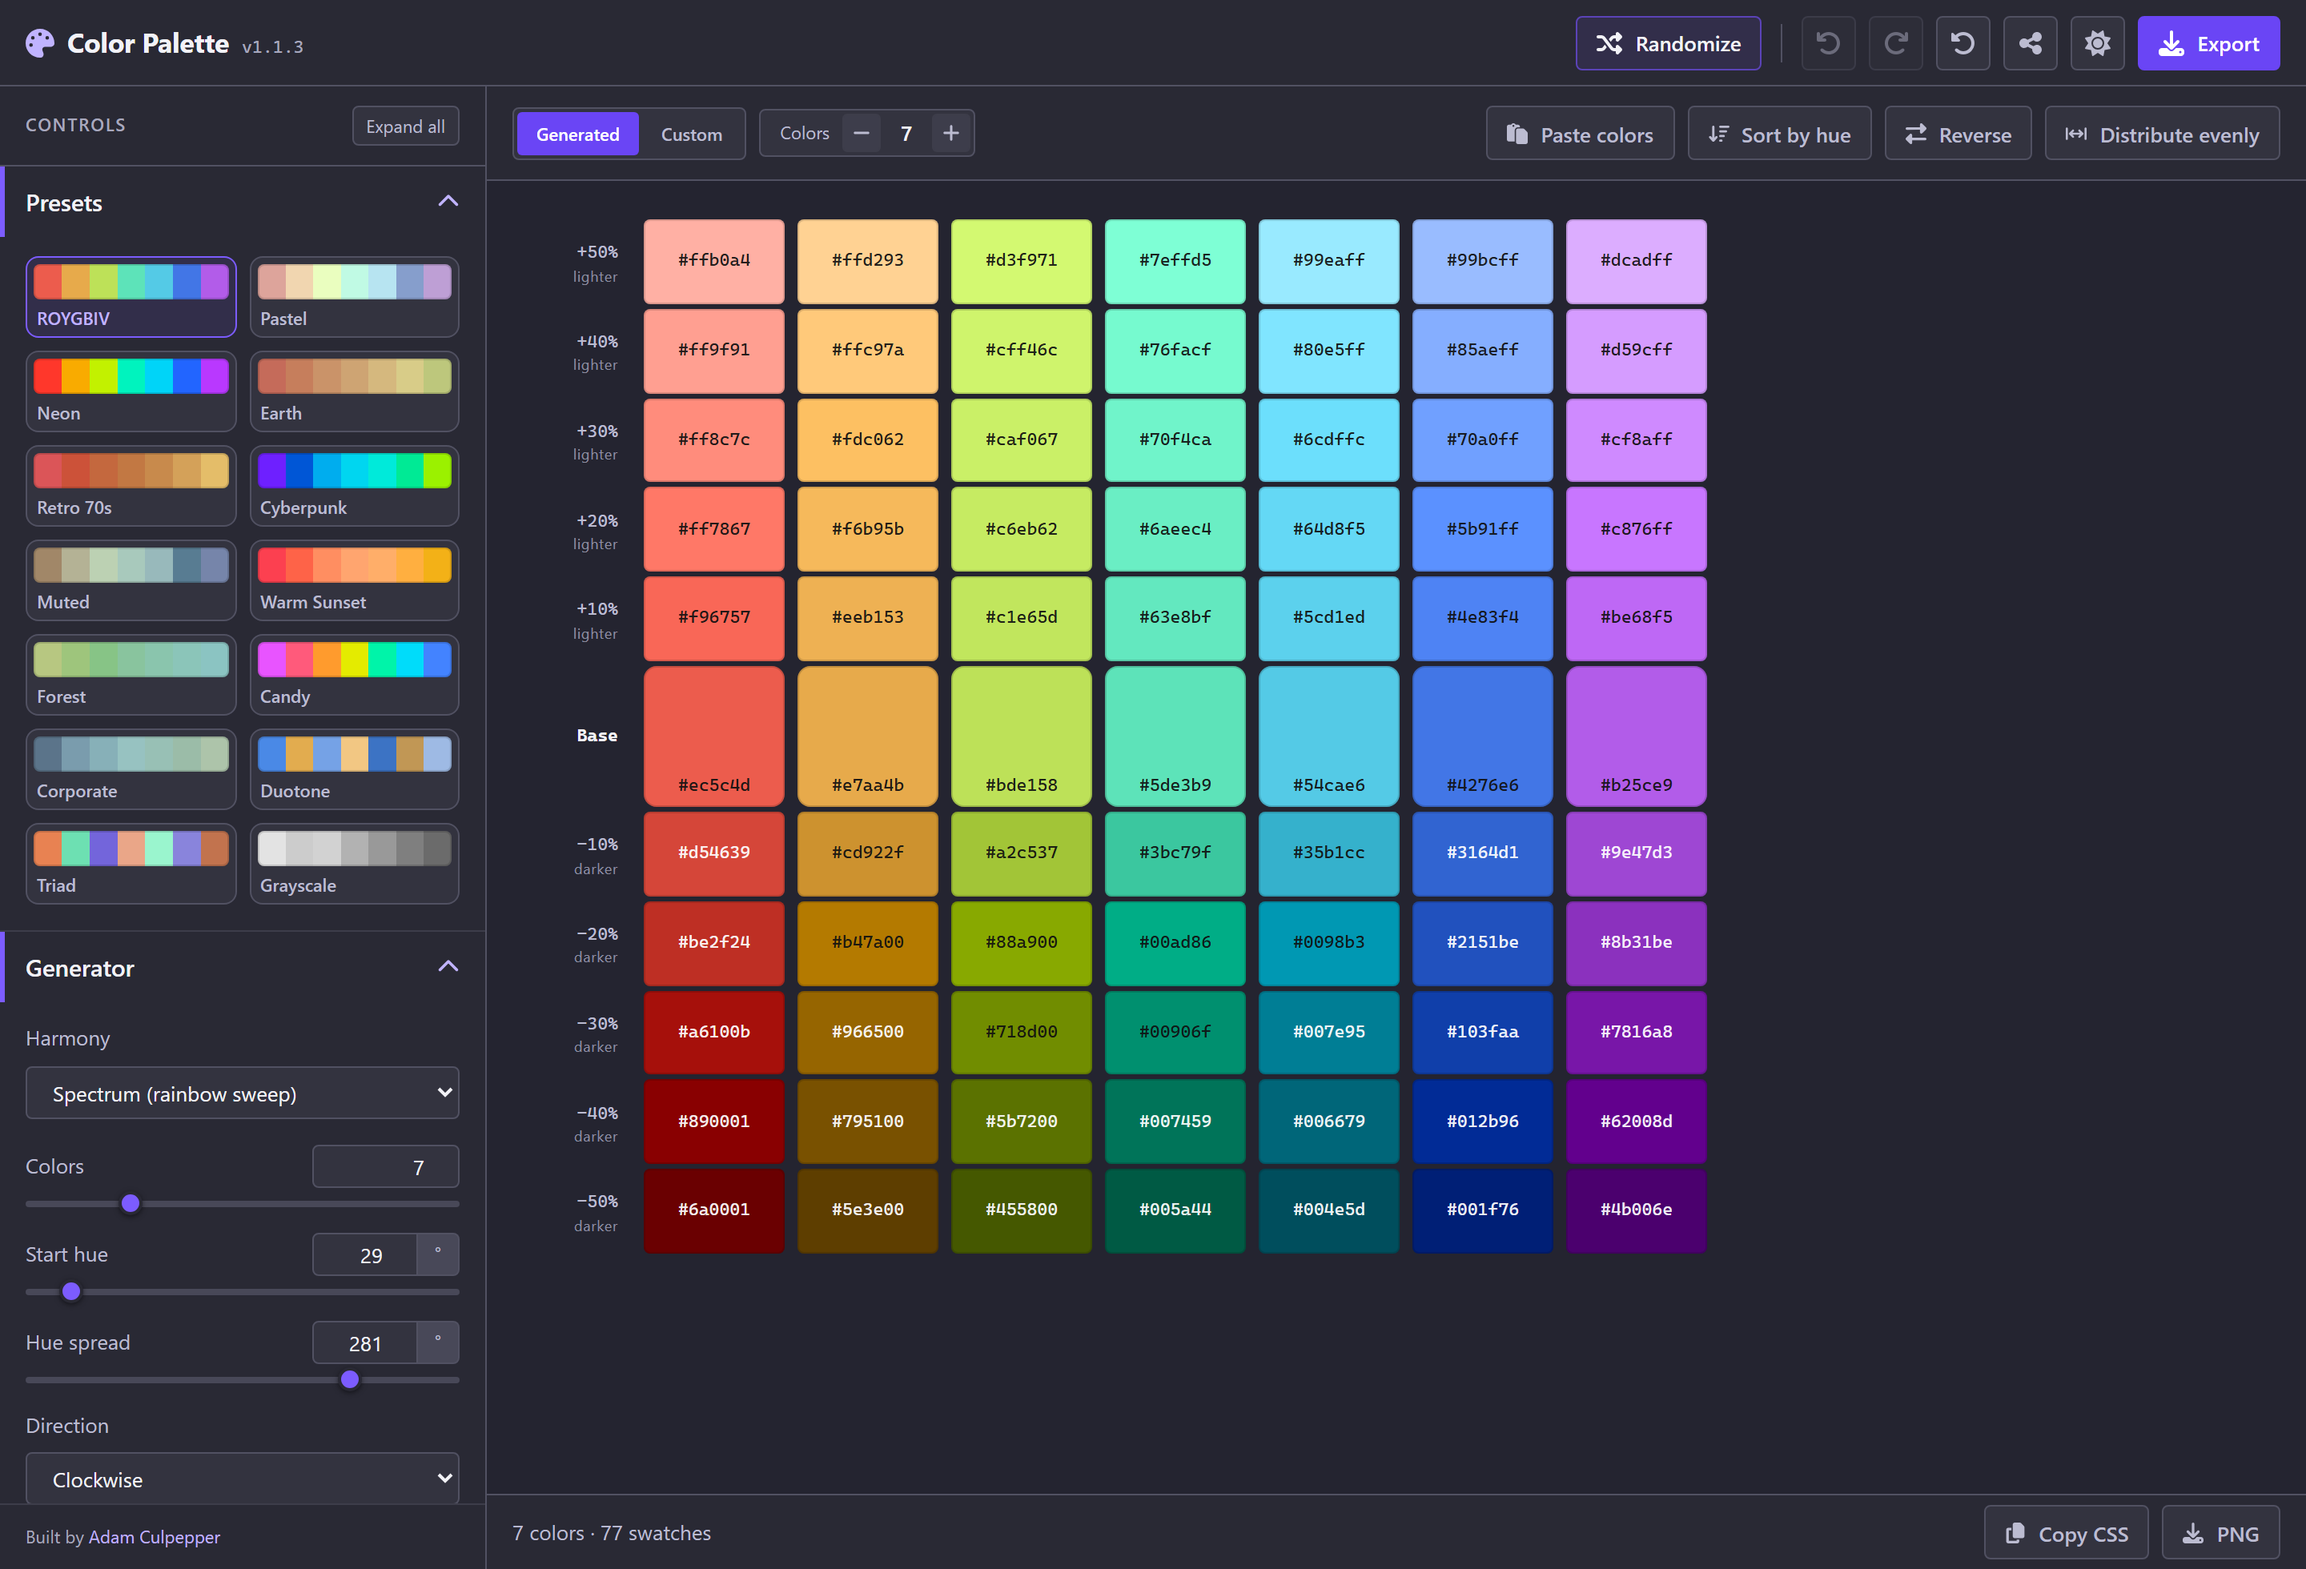
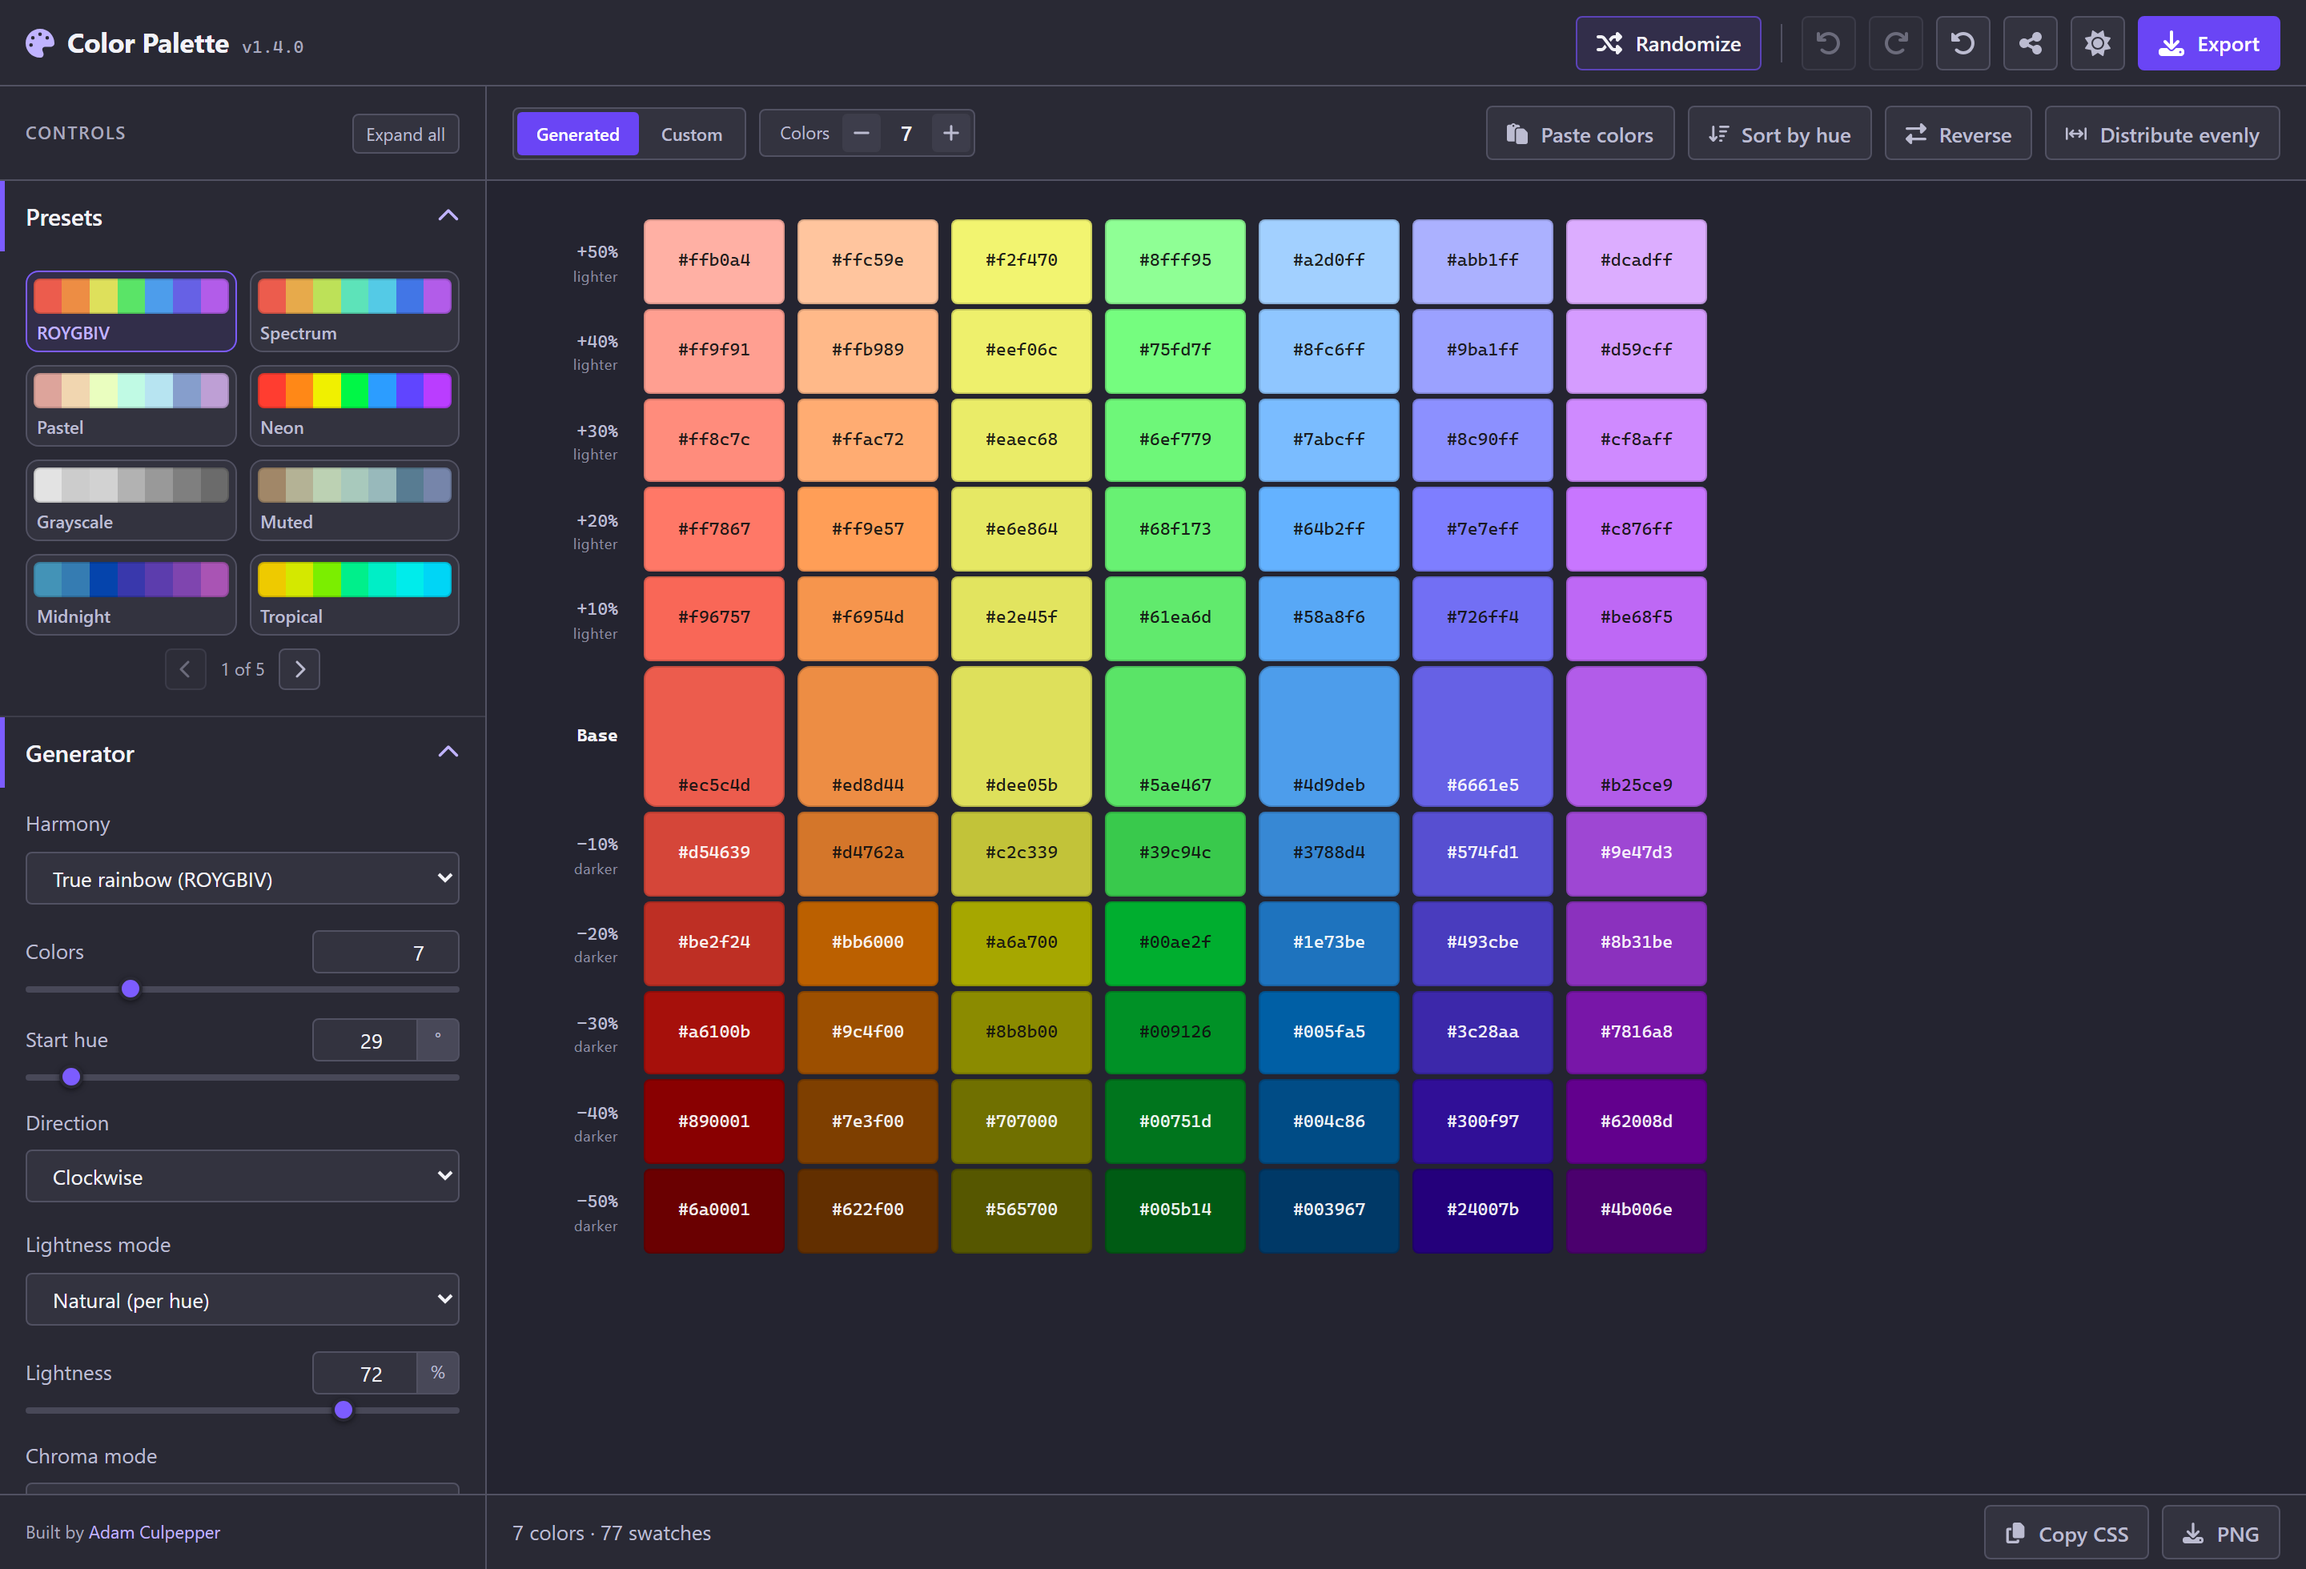
Land on the true rainbow by default (v1.4.0)

diff --git a/src/data/params.js b/src/data/params.js
@@ -33,7 +33,7 @@ export const PARAM_REGISTRY = [
   // ---- Generator ----
   {
     key: 'harmony', group: 'Generator', type: 'select', label: 'Harmony',
-    default: 'spectrum',
+    default: 'spectral',
     options: [
       { value: 'spectrum', label: 'Spectrum (even sweep)' },
       { value: 'spectral', label: 'True rainbow (ROYGBIV)' },

diff --git a/src/data/version.js b/src/data/version.js
@@ -2,4 +2,4 @@
 // npm run verify:exports fails when the three drift, so a release cannot
 // ship with a stale header.
 export const APP_NAME = 'Color Palette'
-export const VERSION = '1.3.2'
+export const VERSION = '1.4.0'

diff --git a/src/lib/palette.js b/src/lib/palette.js
@@ -17,7 +17,7 @@ import { buildScale } from './scale.js'
 
 export const DEFAULT_PALETTE_SETTINGS = {
   count: 7,
-  harmony: 'spectrum',
+  harmony: 'spectral',
   startHue: 29,
   hueSpread: 281,
   direction: 'cw',

diff --git a/README.md b/README.md
@@ -8,7 +8,7 @@ Build a palette of any length, from a rainbow sweep to a color harmony, get the 
 
 ## What it does
 
-A normal rainbow is seven colors. This one runs from 2 to 24, spaced evenly across whatever arc of the color wheel you point it at. Every base color then gets a ladder of tints and shades in the percent step you choose, each row labeled lighter or darker. The default shows five 10% steps each way (77 swatches from seven colors); one slider runs it to the full nine, stopping 10% short of white and black.
+A normal rainbow is seven colors. This one runs from 2 to 24. It opens on the true spectrum, the seven named colors each on its own hue, and it can spread them evenly across whatever arc of the wheel you point it at instead. Every base color then gets a ladder of tints and shades in the percent step you choose, each row labeled lighter or darker. The default shows five 10% steps each way (77 swatches from seven colors); one slider runs it to the full nine, stopping 10% short of white and black.
 
 You can skip the generator entirely and paste your own colors instead. Both paths land in the same place: a row of base colors, a grid under and over it, and one set of adjustment sliders that pulls everything toward looking like a family. Unify, hue, temperature, saturation, lightness, contrast. Push them until it reads right, then export.
 
@@ -67,7 +67,7 @@ Pick one lightness, sweep the hue all the way around, and your yellow comes out 
 
 Natural lightness mode fixes this by giving every hue the lightness where that hue is at its most colorful on a screen. Red peaks around 63%, yellow around 97%, blue around 49%. The Lightness slider then flattens that curve toward one target, so you can sit anywhere between "true to how hues actually behave" and "everything at the same brightness". Flat mode is still there when you need identical lightness across a chart legend and can live with the mud.
 
-The default seven-color output: `#ec5c4d` `#e7aa4b` `#bde158` `#5de3b9` `#54cae6` `#4276e6` `#b25ce9`.
+The even sweep's seven-color output: `#ec5c4d` `#e7aa4b` `#bde158` `#5de3b9` `#54cae6` `#4276e6` `#b25ce9`. The true rainbow the app opens on: `#ec5c4d` `#ed8d44` `#dee05b` `#5ae467` `#4d9deb` `#6661e5` `#b25ce9`.
 
 ### Why an even rainbow has no yellow in it
 

diff --git a/FEATURES.md b/FEATURES.md
@@ -22,7 +22,8 @@ Everything in phase 1 is built and running in the app. Phase 2 is what was left 
 - [x] Harmony modes: spectrum, true rainbow, analogous, complementary, split complementary, triad, tetrad, monochrome
 - [x] True rainbow places the seven named spectral hues, so yellow is yellow rather than amber
 - [x] Other counts interpolate along the named path instead of drifting off it
-- [x] Spectrum is the default, and its output is byte-identical to the engine before harmony existed
+- [x] True rainbow is the default the app lands on; the even sweep is one click away as the Spectrum preset
+- [x] The even sweep's output is byte-identical to the engine before harmony existed
 - [x] Anchor modes place every color on fixed offsets from the start hue (180 / 150+210 / 120+240 / 90+180+270)
 - [x] Analogous caps the spread at 90 degrees and honors the slider below that
 - [x] Colors go round the anchors one at a time, so 7 over 3 anchors lands 3/2/2

diff --git a/CHANGELOG.md b/CHANGELOG.md
@@ -2,6 +2,10 @@
 
 The number here, in `package.json`, and in `src/data/version.js` are the same number; `npm run verify:exports` fails when they drift. A fix bumps the patch, a feature bumps the minor, and the bump lands in the same change as the work. This log was reconstructed retroactively when the rule was adopted, so the early entries carry the versions they should have carried at the time.
 
+## [1.4.0] - 2026-08-18
+
+- The app opens on ROYGBIV, the true rainbow, rather than the even sweep. The even sweep is still one click away as the Spectrum preset, and still one option in the Harmony select.
+
 ## [1.3.2] - 2026-08-18
 
 - The sidebar Controls bar and the stage toolbar are the same height, so the seam between the two panels runs straight. Like the footer bars, both derive their height from the button they hold.
